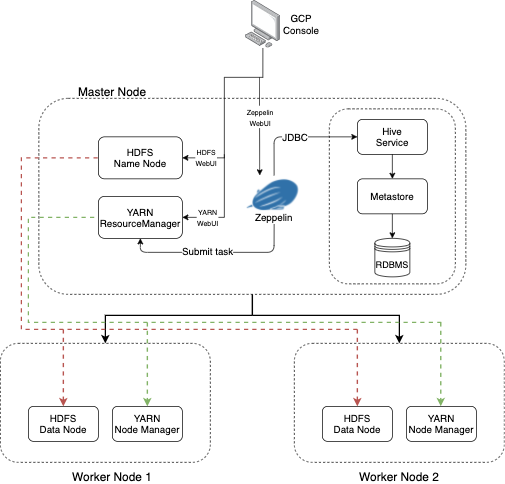
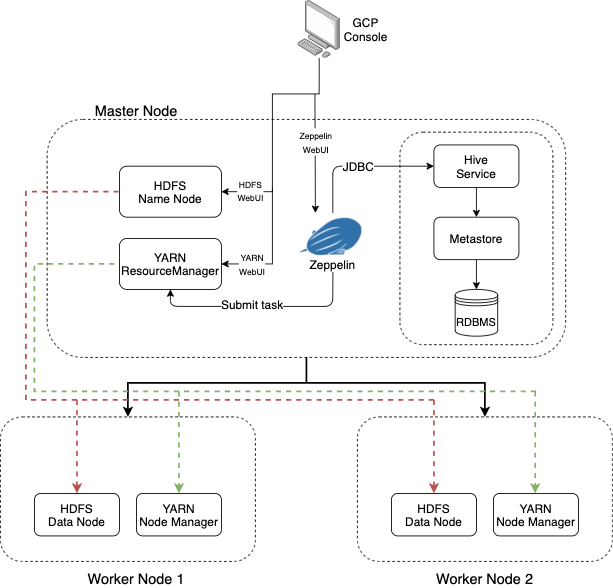
finished README.md

diff --git a/hadoop/README.md b/hadoop/README.md
@@ -5,23 +5,29 @@ Table of contents
 * [Improvements](#Improvements)
 
 # Introduction
-- In this project, Jarvis data analytics team wants to move from SAP and R to the Hadoop ecosystem for processing big data. Used Apache Hadoop, HDFS, YARN, Hive, Zeppelin to process `World Developement Indicators (WDI)` and generate meaningful insights
+- In this project, the Jarvis data analytics team wants to move from SAP and R to the Hadoop ecosystem for processing big data. Used Apache Hadoop, HDFS, YARN, Hive, Zeppelin to process `World Development Indicators (WDI)` and generate meaningful insights
     - Provisioned Hadoop Cluster on GCP (Google Cloud Platform)
     - Solved business problems using Apache Hive and Zeppelin Notebook.
 
 # Hadoop Cluster
-- Diagram <br>
-    ![diagram]('asset/hadoop_cluster.png')
-  - 1 master and 2 workers nodes
-  - HDFS, YARN, Zeppelin, Hive (hive Server, hive metastore, RDBMS), etc.
-- Big data tools you evaluated (e.g. MapReduce, YARN, HDFS, Hive, Zeppelin, etc..)
-- hardware specifications
+![diagram](asset/hadoop_cluster.png)
+## Big Data Tools
+- HDFS: HDFS is Hadoop Distributed File System. It is distributed file system designed to hold a very large amount of data (terabytes or petabytes) and provide high-throughput access to this information.
+    - Name Node: Namenode is where the metadata about the namespace of the files/directories are stored. It is in charge of the inserting, searching, and deleting of any file. Datanodes report to Namenode.
+    - Data Node: Datanode is the physical storage in which the data is stored across the cluster.
+- YARN: YARN is a Hadoop resource managing architecture that manages resources and allocates resources to each application accordingly.
+    - ResourceManager: keeps track of live NodeManagers and available resources. Allocates available resources to appropriate applications and tasks. Monitors ApplicationMasters.
+    - NodeManager: Provides computational resources in form of containers. Manages processes running in containers.
+- Hive: Apache Hive is a framework for data warehousing on top of Hadoop. It was created to make working with queries/analysis easier for SQL-strong analysts. It has many similar characteristics to RDBMS with some differences.
+    - Hive Client: Number of different mechanisms for connecting to Hive server from applications: Beeline(JDBC Driver), ODBC, Thrift
+    - Hive Services: Metastore, FileSystem, Execution Engine.
+    - Metastore: Hive metastore is the central repository of Hive metadata for the data warehouse.
+- Apache Zeppelin: A web-based notebook that allows users to connect to Hive in a node, run data analysis, exploration, and visualization. 
 
 # Hive Project
-- Discuss how you optimized Hive queries? (e.g. partitions, columnar, etc..)
-- Post your Zeppelin Notebook screenshot here
-	- Make sure your Notebook is nice and clean as hiring managers will visit your project
-	- use `Full Page Screen Capture` chrome extension to capture a webpage as a picture
+![HiveProject](asset/hive_project.png)
 
 # Improvements
-- at least three improvements
+1. Optimize GDP queries even more with Parquet format.
+2. Optimize other queries more with Spark query.
+3. Make more comparisons with the data to gain insights.
